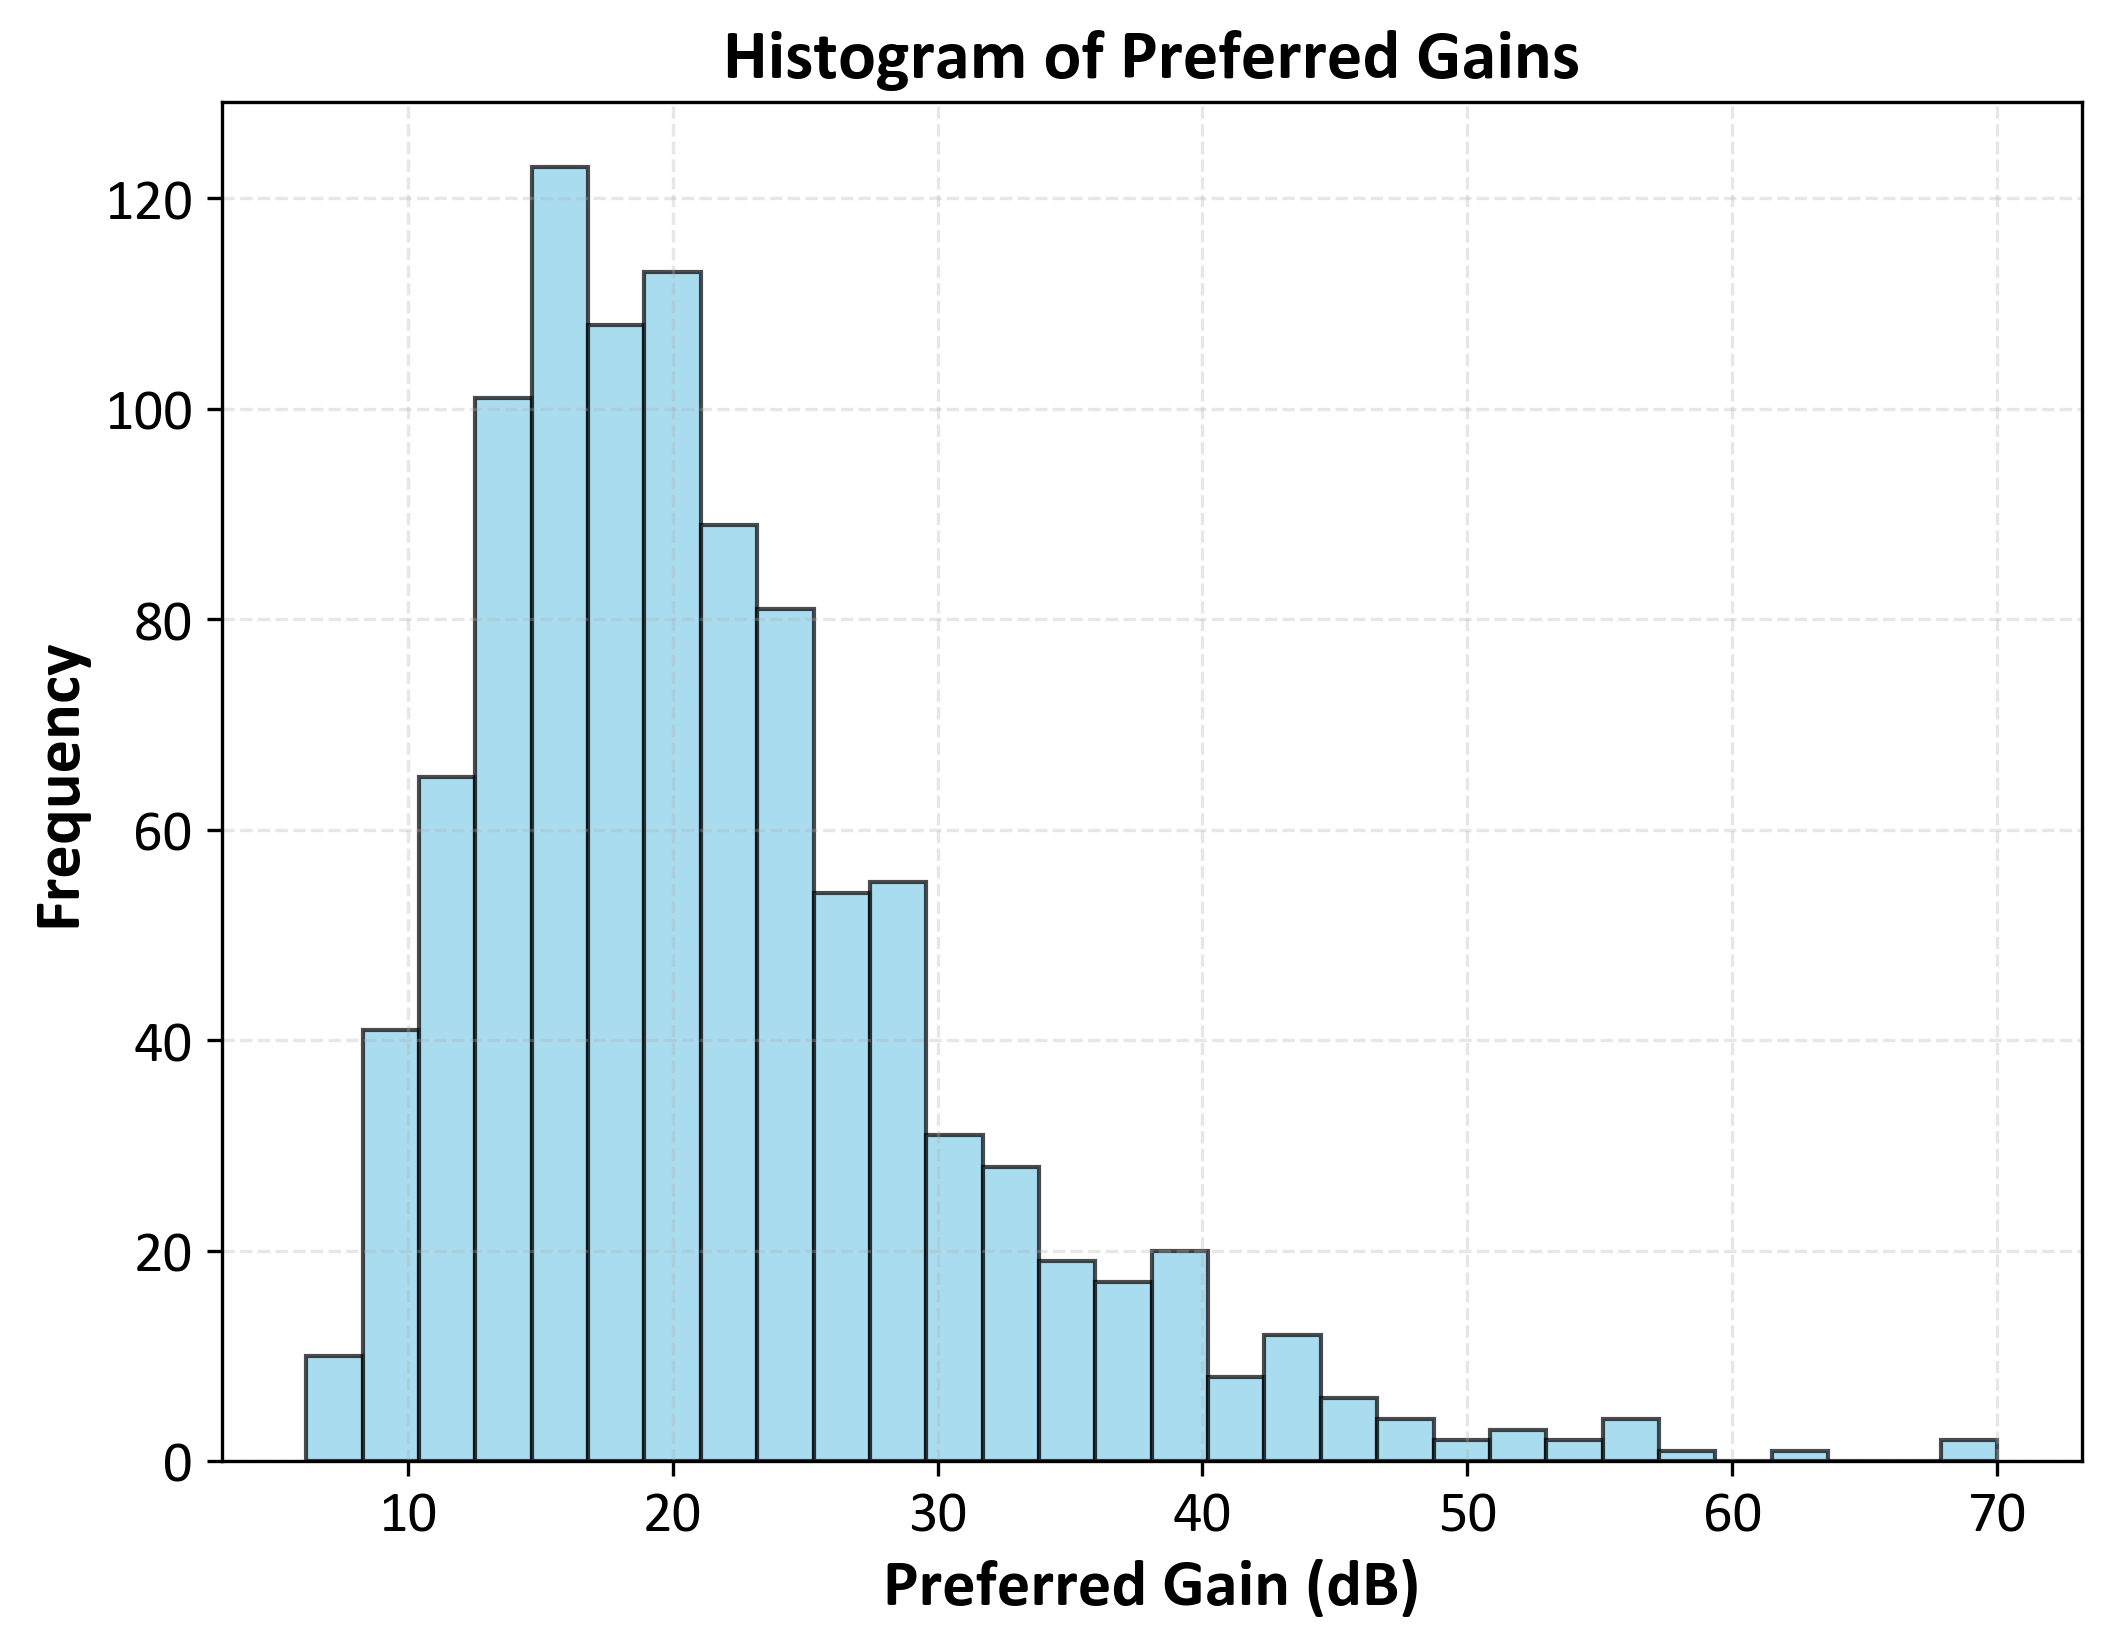
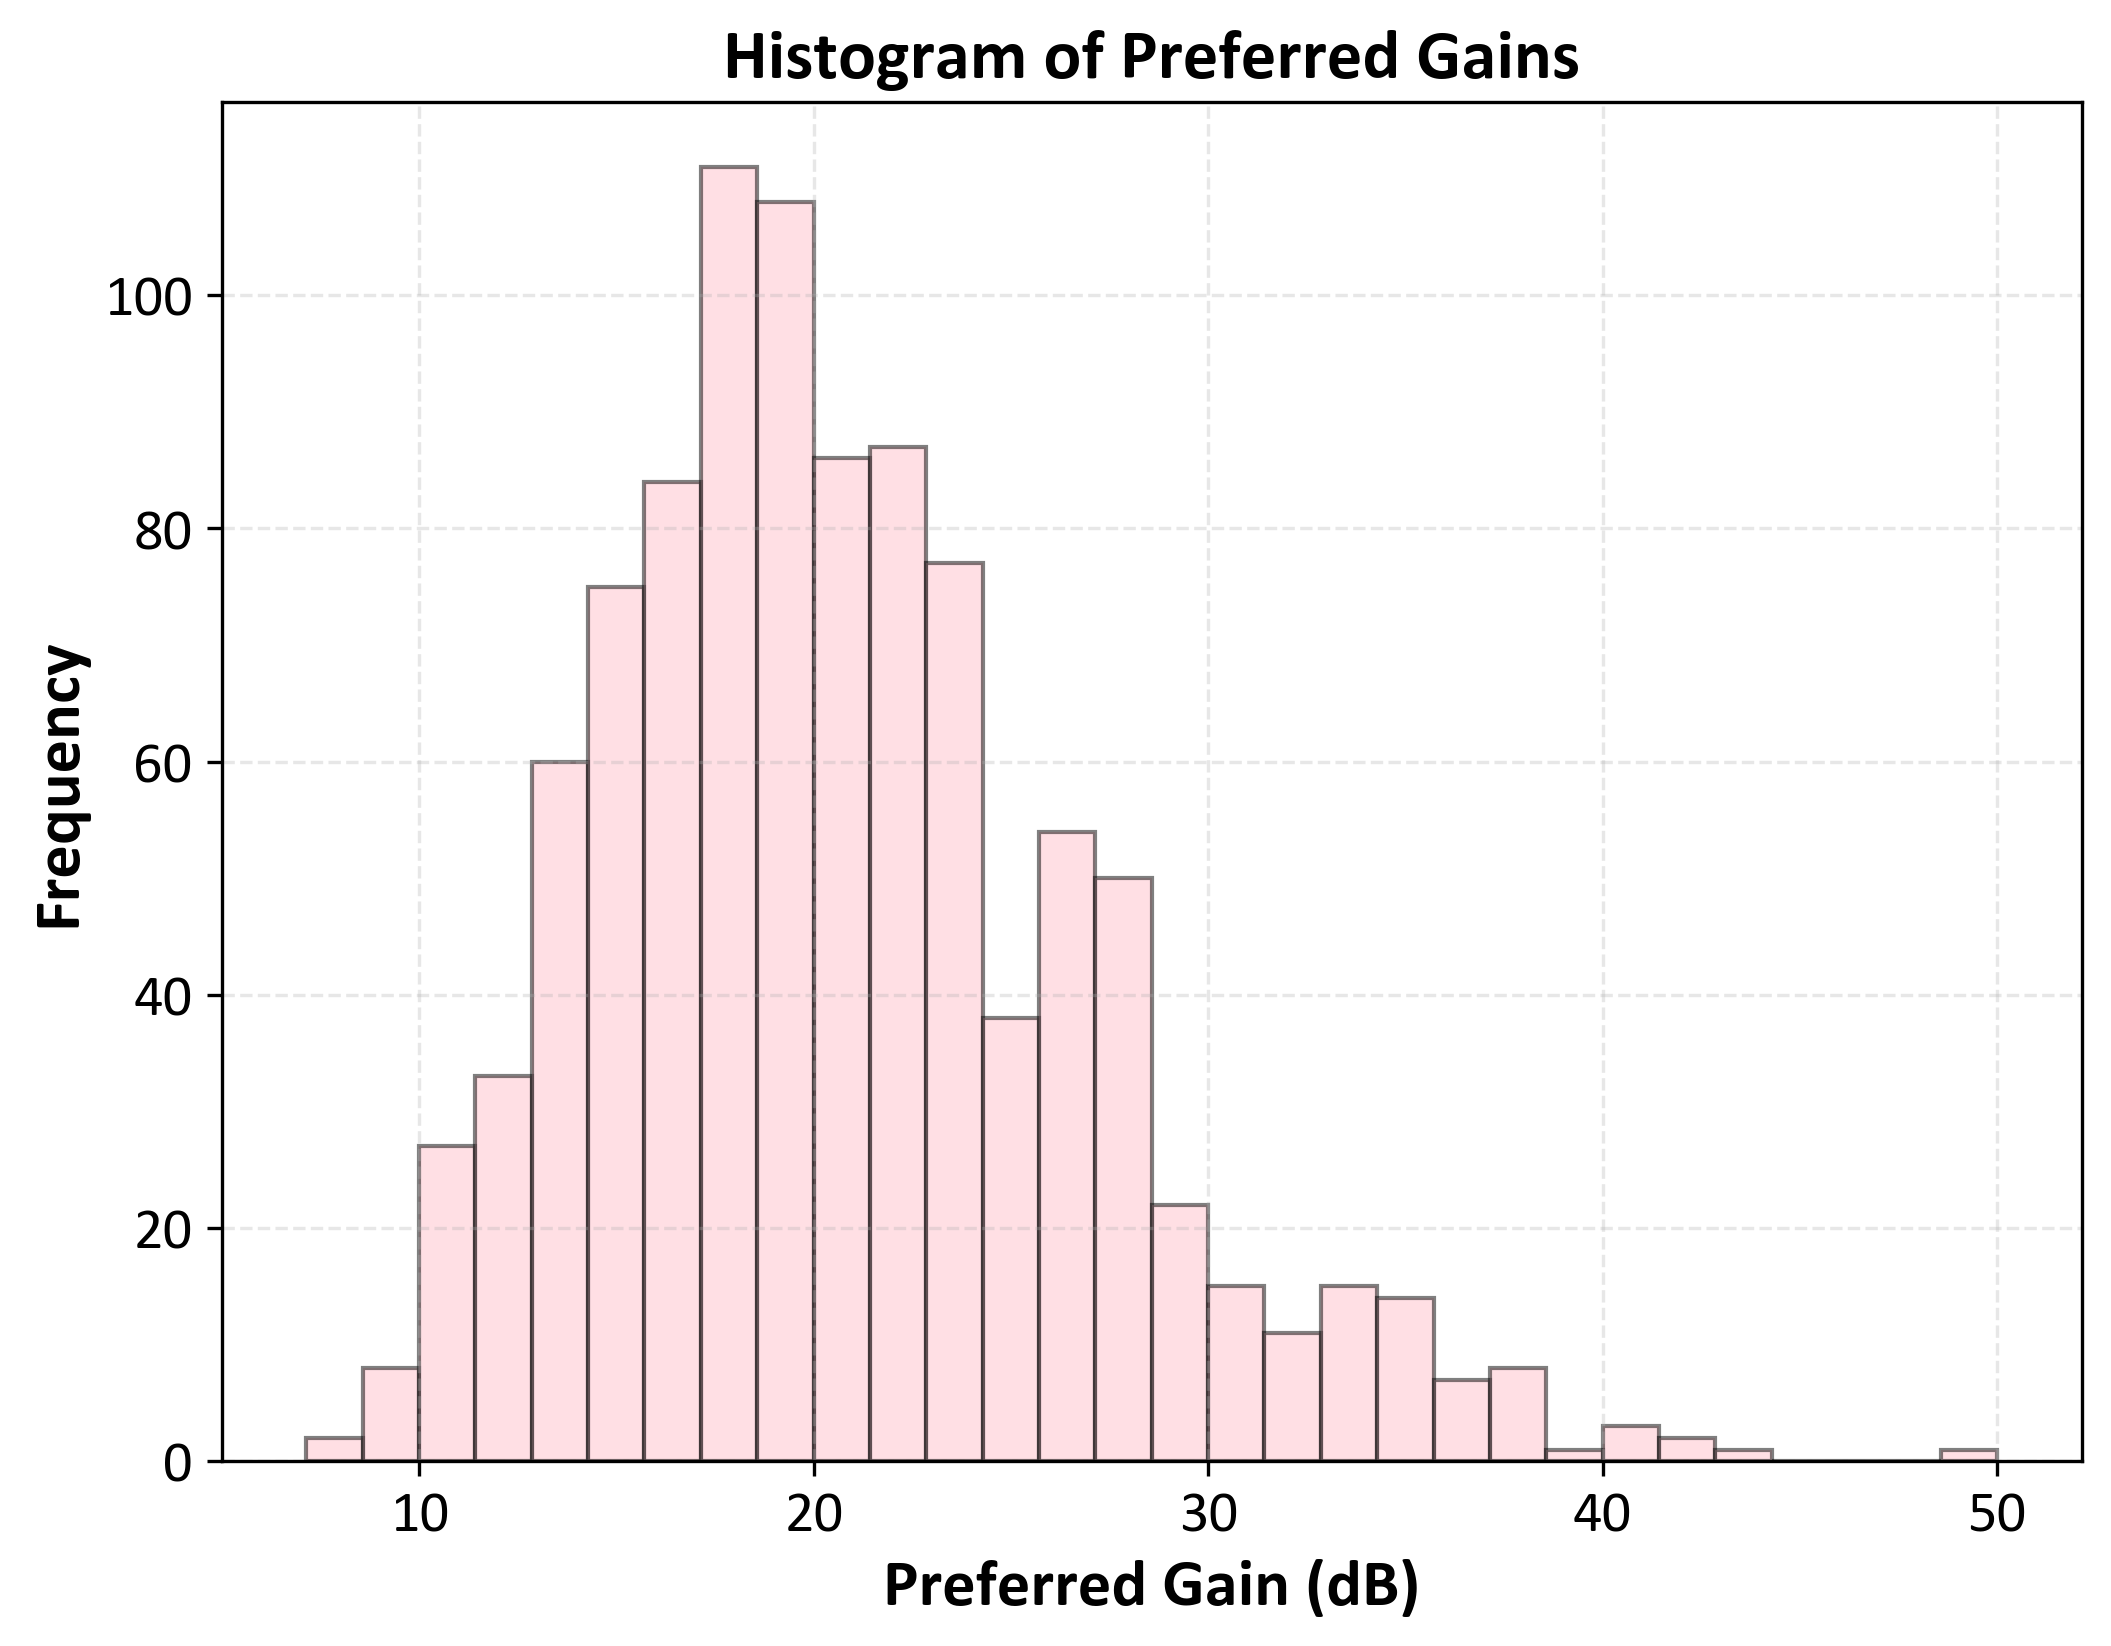
Add files via upload

diff --git a/monte_carlo_gain_adjustment.py b/monte_carlo_gain_adjustment.py
@@ -39,7 +39,7 @@ def simulate_gain_adjustment(initial_gain, preferred_gain, num_adjustments, mean
         
         # Determines direction of adjustment
         direction = 1 if preferred_gain > gain_settings[i-1] else -1
-        # Updates gain setting with adjustment towards prefered gain
+        # Gain adjustment towards prefered gain
         gain_settings[i] = gain_settings[i-1] + direction * adjustment
         
         # Limit gain to a safe and practical range
@@ -70,8 +70,8 @@ def monte_carlo_simulation_skewed_preferred_gain(num_simulations, initial_gain, 
     # Generate skewed preferred gains using a log-normal distribution
     preferred_gains = np.random.lognormal(mean=np.log(preferred_gain_mean), sigma=preferred_gain_std, size=num_simulations)
     
-    # Clip the preferred gains to be within a practical range (e.g., 5 to 70 dB)
-    preferred_gains = np.clip(preferred_gains, 5, 70)
+    # Clip the preferred gains to be within a practical range
+    preferred_gains = np.clip(preferred_gains, 5, 50)
     
     # Array to store all simulation results
     all_simulations = np.zeros((num_simulations, num_adjustments))
@@ -87,13 +87,15 @@ def monte_carlo_simulation_skewed_preferred_gain(num_simulations, initial_gain, 
 ########################################################################################################################################################################
 initial_gain = 0  # Initial gain setting (0 to 100 scale)
 preferred_gain_mean = 20  # Mean for skewed distribution (closer to 20 dB, reflecting mild hearing loss)
-preferred_gain_std = 0.4  # Standard deviation for skewed distribution (controls tail length)
+preferred_gain_std = 0.3  # Standard deviation for skewed distribution (controls tail length)
 num_adjustments = 15  # Number of self-adjustments (e.g., over sessions)
 mean_adjustment = 4  # Mean gain adjustment per session
 std_dev_adjustment = 1  # Variability in adjustment
 num_simulations = 1000  # Number of simulations
 
 # Run the Monte Carlo simulation with skewed preferred gains
+# simulated_gain_adjustments: A 2D array where each row represents the gain adjustments for one simulation (i.e., one user) across multiple sessions.
+# preferred_gains: A 1D array of preferred gain values for each simulation (user), drawn from a log-normal distribution.
 simulated_gain_adjustments, preferred_gains = monte_carlo_simulation_skewed_preferred_gain(num_simulations, initial_gain, preferred_gain_mean, preferred_gain_std, num_adjustments, mean_adjustment, std_dev_adjustment)
 
 # Calculate the mean and percentiles of adjusted gains from the simulations
@@ -111,7 +113,7 @@ delta_gain_95 = np.percentile(simulated_gain_adjustments - preferred_gains[:, No
 ########################################################################################################################################################################
 plt.rcParams['font.family'] = 'Calibri'
 plt.figure(figsize=(8, 6))
-plt.hist(preferred_gains, bins=30, color='skyblue', edgecolor='black', alpha=0.7)
+plt.hist(preferred_gains, bins=30, color='#FFC0CB', edgecolor='black', alpha=0.5)
 plt.title("Histogram of Preferred Gains", fontsize=17, fontweight='bold')
 plt.xlabel("Preferred Gain (dB)", fontsize=16, fontweight='bold')
 plt.ylabel("Frequency", fontsize=16, fontweight='bold')
@@ -129,8 +131,8 @@ plt.show()
 ########################################################################################################################################################################
 # Plot the results with delta gain (change from preferred gain)
 plt.figure(figsize=(10, 6))
-plt.plot(delta_gain_mean, label="Mean Δ Gain from Preference", color="blue",lw=3)
-plt.fill_between(range(num_adjustments), delta_gain_5, delta_gain_95, color='lavender', alpha=0.5, label="90% Confidence Interval")
+plt.plot(delta_gain_mean, label="Mean Δ Gain from Preference", color="#DE3163",lw=3)
+plt.fill_between(range(num_adjustments), delta_gain_5, delta_gain_95, color='#F3CFC6', alpha=0.2, label="90% Confidence Interval")
 plt.title("Monte Carlo Simulation of Adjustments to Preferred Gain", fontsize=18, fontweight='bold')
 plt.xlabel("Number of Adjustments", fontsize=18, fontweight='bold')
 plt.ylabel("Δ Gain (dB)", fontsize=18, fontweight='bold')
